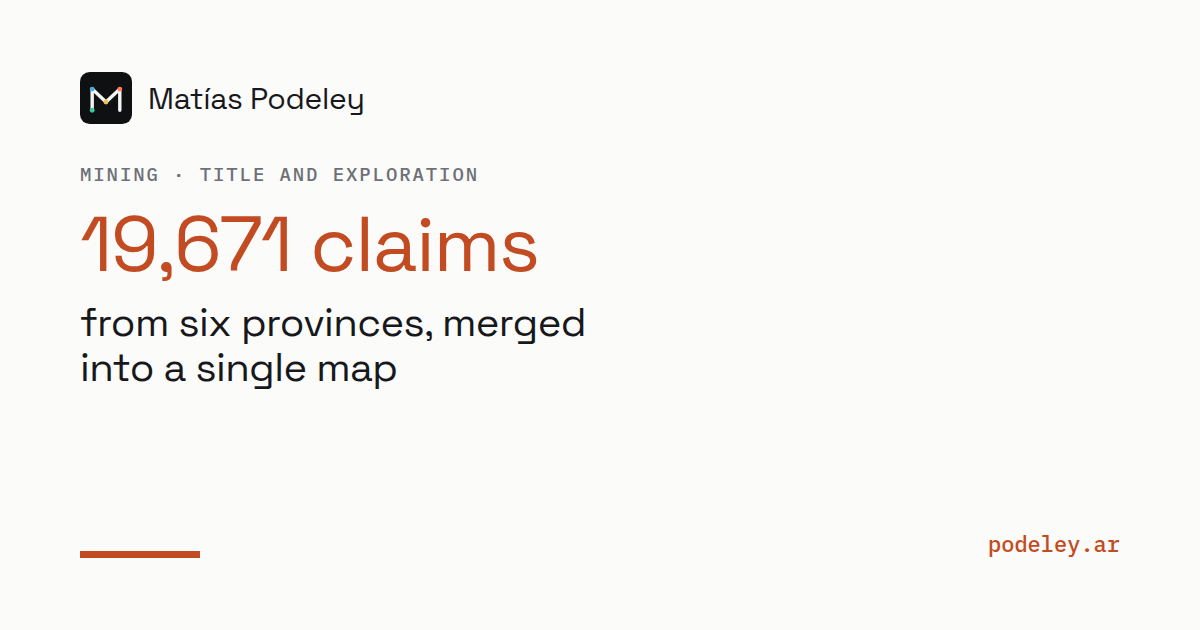
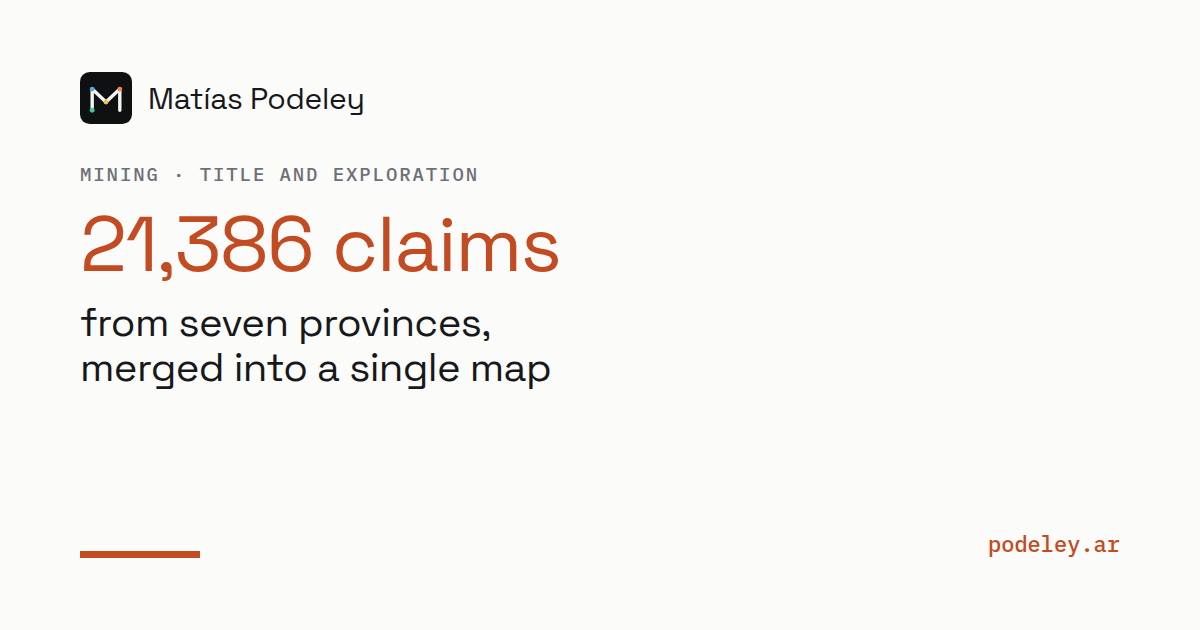
Updates

Changed region(s): [[0.0617, 0.3317, 0.4625, 0.4524], [0.0617, 0.4825, 0.4933, 0.6333]]

diff --git a/mineria/index.html b/mineria/index.html
@@ -4,7 +4,7 @@
 <meta charset="utf-8">
 <meta name="viewport" content="width=device-width,initial-scale=1">
 <title>Datos satelitales para minería — Matías Podeley</title>
-<meta name="description" content="Quién tiene derechos sobre el suelo en 6 provincias, blancos de exploración validados a ciegas, volumen excavado auditado por satélite y la obra de los salares de litio año por año. Cuatro casos en línea.">
+<meta name="description" content="Quién tiene derechos sobre el suelo en 7 provincias, blancos de exploración validados a ciegas, volumen excavado auditado por satélite y la obra de los salares de litio año por año. Cuatro casos en línea.">
 <link rel="canonical" href="https://podeley.ar/mineria/">
 <link rel="alternate" hreflang="es" href="https://podeley.ar/mineria/">
 <link rel="alternate" hreflang="en" href="https://podeley.ar/en/mineria/">
@@ -14,17 +14,17 @@
 <meta property="og:site_name" content="podeley.ar">
 <meta property="og:locale" content="es_AR">
 <meta property="og:title" content="Datos satelitales para minería — Matías Podeley">
-<meta property="og:description" content="Quién tiene derechos sobre el suelo en 6 provincias, blancos de exploración validados a ciegas, volumen excavado auditado por satélite y la obra de los salares de litio año por año. Cuatro casos en línea.">
+<meta property="og:description" content="Quién tiene derechos sobre el suelo en 7 provincias, blancos de exploración validados a ciegas, volumen excavado auditado por satélite y la obra de los salares de litio año por año. Cuatro casos en línea.">
 <meta property="og:image" content="https://podeley.ar/assets/og/mineria.es.png">
 <meta property="og:image:width" content="1200">
 <meta property="og:image:height" content="630">
-<meta property="og:image:alt" content="Minería: 19,671 derechos de seis provincias en un solo mapa">
+<meta property="og:image:alt" content="Minería: 21,386 derechos de siete provincias en un solo mapa">
 <meta property="og:url" content="https://podeley.ar/mineria/">
 <meta name="twitter:card" content="summary_large_image">
 <meta name="twitter:title" content="Datos satelitales para minería — Matías Podeley">
-<meta name="twitter:description" content="Quién tiene derechos sobre el suelo en 6 provincias, blancos de exploración validados a ciegas, volumen excavado auditado por satélite y la obra de los salares de litio año por año. Cuatro casos en línea.">
+<meta name="twitter:description" content="Quién tiene derechos sobre el suelo en 7 provincias, blancos de exploración validados a ciegas, volumen excavado auditado por satélite y la obra de los salares de litio año por año. Cuatro casos en línea.">
 <meta name="twitter:image" content="https://podeley.ar/assets/og/mineria.es.png">
-<meta name="twitter:image:alt" content="Minería: 19,671 derechos de seis provincias en un solo mapa">
+<meta name="twitter:image:alt" content="Minería: 21,386 derechos de siete provincias en un solo mapa">
 <link rel="preload" href="/fonts/space-grotesk-500.woff2" as="font" type="font/woff2" crossorigin>
 <link rel="preload" href="/fonts/ibm-plex-sans-400.woff2" as="font" type="font/woff2" crossorigin>
 <link rel="stylesheet" href="/styles/tokens.css">
@@ -63,7 +63,7 @@
 <section class="hero wrap">
   <p class="kicker">Minería · Exploración y monitoreo · Datos satelitales</p>
   <h1>Quién tiene el suelo, dónde perforar, cuánta roca se movió</h1>
-  <p class="hero-sub">Cuatro herramientas para decidir antes de pagar: el catastro de seis provincias unificado en un mapa, blancos de exploración validados a ciegas, volumen excavado medido desde el espacio y la obra de los salares de litio año por año. Todo con el método a la vista, trazable hasta la fuente.</p>
+  <p class="hero-sub">Cuatro herramientas para decidir antes de pagar: el catastro de siete provincias unificado en un mapa, blancos de exploración validados a ciegas, volumen excavado medido desde el espacio y la obra de los salares de litio año por año. Todo con el método a la vista, trazable hasta la fuente.</p>
   <p class="hero-cta"><a class="btn btn--primary" href="mailto:matias@podeley.ar?subject=Consulta%20Miner%C3%ADa%20%E2%80%94%20podeley.ar%2Fmineria&amp;body=Hola%20Matias%2C%0A%0A">Escribime</a> <a class="link-plain" href="#casos">Ver los casos <span class="arw">↓</span></a></p>
 </section>
 
@@ -80,8 +80,8 @@
     <article class="card">
       <figure class="shot"><img src="/assets/shots/catastro-minero-argentina.webp" width="1600" height="1000" loading="lazy" decoding="async" alt="Captura: mapa nacional de derechos mineros por provincia"></figure>
       <h3><a href="https://mpodeley.github.io/catastro-minero-argentina/" target="_blank" rel="noopener">Saber quién tiene el suelo antes de mover una ficha</a></h3>
-      <p class="pitch">Argentina no tiene catastro minero nacional: cada provincia publica el suyo con formato distinto, y varias no publican nada. Esto unifica seis en un mapa — 19,671 derechos, 22 millones de hectáreas, 2,418 titulares — con el mineral y el expediente detrás de cada polígono. San Juan tiene el 66.4% de su territorio bajo derecho minero, y las provincias que no publican se dibujan como ausencia explícita, nunca como territorio libre.</p>
-      <p class="meta"><span class="proj">Catastros provinciales · 6 provincias · datos a 2026-07 · se actualiza</span><span class="tag t-status">Dataset abierto</span></p>
+      <p class="pitch">Argentina no tiene catastro minero nacional: cada provincia publica el suyo con formato distinto, y varias no publican nada. Esto unifica siete en un mapa — 21,386 derechos, 25.8 millones de hectáreas, 2,991 titulares — con el mineral y el expediente detrás de cada polígono. San Juan tiene el 66.4% de su territorio bajo derecho minero, y las provincias que no publican se dibujan como ausencia explícita, nunca como territorio libre.</p>
+      <p class="meta"><span class="proj">Catastros provinciales · 7 provincias · datos a 2026-08 · se actualiza</span><span class="tag t-status">Dataset abierto</span></p>
     </article>
 
     <article class="card">
@@ -141,7 +141,7 @@
   <div class="section-head">
     <p class="eyebrow">Quién está detrás</p>
   </div>
-  <p class="bio-text">Matías Podeley. Ingeniero del ITBA, dieciocho años en energía: simulé yacimientos gigantes como Camisea, respaldé compras de activos por más de US$ 300 millones y di clases de evaluación de proyectos durante cinco años. Estas herramientas las construyo yo, con IA y fuentes auditables; lo que mejor me sale es ponerlas a trabajar con tu equipo. Buenos Aires.</p>
+  <p class="bio-text">Matías Podeley. Ingeniero del ITBA, dieciocho años en energía: cuatro de operación en Neuquén, simulé yacimientos gigantes como Camisea, lideré equipos evaluando proyectos petroquímicos, respaldé compras de activos por más de US$ 300 millones y di clases de evaluación de proyectos durante cinco años. Estas herramientas las construyo yo, con IA y fuentes auditables; lo que mejor me sale es ponerlas a trabajar con tu equipo. Buenos Aires.</p>
   <p class="aside-link">De dónde sale que un ingeniero de petróleo mire salares: <a href="/perfil/">perfil</a>.</p>
 </section>
 

diff --git a/en/mineria/index.html b/en/mineria/index.html
@@ -4,7 +4,7 @@
 <meta charset="utf-8">
 <meta name="viewport" content="width=device-width,initial-scale=1">
 <title>Satellite data for mining — Matías Podeley</title>
-<meta name="description" content="Who holds mining title across 6 provinces, blind-validated exploration targets, satellite-audited excavated volume, and lithium salar buildout year by year. Four live cases.">
+<meta name="description" content="Who holds mining title across 7 provinces, blind-validated exploration targets, satellite-audited excavated volume, and lithium salar buildout year by year. Four live cases.">
 <link rel="canonical" href="https://podeley.ar/en/mineria/">
 <link rel="alternate" hreflang="es" href="https://podeley.ar/mineria/">
 <link rel="alternate" hreflang="en" href="https://podeley.ar/en/mineria/">
@@ -14,17 +14,17 @@
 <meta property="og:site_name" content="podeley.ar">
 <meta property="og:locale" content="en">
 <meta property="og:title" content="Satellite data for mining — Matías Podeley">
-<meta property="og:description" content="Who holds mining title across 6 provinces, blind-validated exploration targets, satellite-audited excavated volume, and lithium salar buildout year by year. Four live cases.">
+<meta property="og:description" content="Who holds mining title across 7 provinces, blind-validated exploration targets, satellite-audited excavated volume, and lithium salar buildout year by year. Four live cases.">
 <meta property="og:image" content="https://podeley.ar/assets/og/mineria.en.png">
 <meta property="og:image:width" content="1200">
 <meta property="og:image:height" content="630">
-<meta property="og:image:alt" content="Mining: 19,671 claims from six provinces in a single map">
+<meta property="og:image:alt" content="Mining: 21,386 claims from seven provinces in a single map">
 <meta property="og:url" content="https://podeley.ar/en/mineria/">
 <meta name="twitter:card" content="summary_large_image">
 <meta name="twitter:title" content="Satellite data for mining — Matías Podeley">
-<meta name="twitter:description" content="Who holds mining title across 6 provinces, blind-validated exploration targets, satellite-audited excavated volume, and lithium salar buildout year by year. Four live cases.">
+<meta name="twitter:description" content="Who holds mining title across 7 provinces, blind-validated exploration targets, satellite-audited excavated volume, and lithium salar buildout year by year. Four live cases.">
 <meta name="twitter:image" content="https://podeley.ar/assets/og/mineria.en.png">
-<meta name="twitter:image:alt" content="Mining: 19,671 claims from six provinces in a single map">
+<meta name="twitter:image:alt" content="Mining: 21,386 claims from seven provinces in a single map">
 <link rel="preload" href="/fonts/space-grotesk-500.woff2" as="font" type="font/woff2" crossorigin>
 <link rel="preload" href="/fonts/ibm-plex-sans-400.woff2" as="font" type="font/woff2" crossorigin>
 <link rel="stylesheet" href="/styles/tokens.css">
@@ -63,7 +63,7 @@
 <section class="hero wrap">
   <p class="kicker">Mining · Exploration &amp; monitoring · Satellite data</p>
   <h1>Who holds the ground, where to drill, how much rock moved</h1>
-  <p class="hero-sub">Four tools for deciding before you pay: the mining cadastre of six provinces unified into one map, exploration targets blind-validated against known deposits, excavated volume measured from orbit, and lithium salar buildout year by year. All with the method left in the open, traceable to the source.</p>
+  <p class="hero-sub">Four tools for deciding before you pay: the mining cadastre of seven provinces unified into one map, exploration targets blind-validated against known deposits, excavated volume measured from orbit, and lithium salar buildout year by year. All with the method left in the open, traceable to the source.</p>
   <p class="hero-cta"><a class="btn btn--primary" href="mailto:matias@podeley.ar?subject=Mining%20inquiry%20%E2%80%94%20podeley.ar%2Fmineria&amp;body=Hi%20Matias%2C%0A%0A">Email me</a> <a class="link-plain" href="#casos">See the cases <span class="arw">↓</span></a></p>
 </section>
 
@@ -80,8 +80,8 @@
     <article class="card">
       <figure class="shot"><img src="/assets/shots/catastro-minero-argentina.webp" width="1600" height="1000" loading="lazy" decoding="async" alt="Screenshot: national map of mining tenements by province"></figure>
       <h3><a href="https://mpodeley.github.io/catastro-minero-argentina/" target="_blank" rel="noopener">Know who holds the ground before making a move</a></h3>
-      <p class="pitch">Argentina has no national mining cadastre: each province publishes its own in a different format, and several publish nothing at all. This unifies six into one map — 19,671 tenements, 22 million hectares, 2,418 holders — with the mineral and the file number behind every polygon. San Juan has 66.4% of its territory under mining title, and the provinces that publish nothing are drawn as explicit absence, never as open ground.</p>
-      <p class="meta"><span class="proj">Provincial cadastres · 6 provinces · data to 2026-07 · kept current</span><span class="tag t-status">Open dataset</span></p>
+      <p class="pitch">Argentina has no national mining cadastre: each province publishes its own in a different format, and several publish nothing at all. This unifies seven into one map — 21,386 tenements, 25.8 million hectares, 2,991 holders — with the mineral and the file number behind every polygon. San Juan has 66.4% of its territory under mining title, and the provinces that publish nothing are drawn as explicit absence, never as open ground.</p>
+      <p class="meta"><span class="proj">Provincial cadastres · 7 provinces · data to 2026-08 · kept current</span><span class="tag t-status">Open dataset</span></p>
     </article>
 
     <article class="card">
@@ -141,7 +141,7 @@
   <div class="section-head">
     <p class="eyebrow">Who's behind this</p>
   </div>
-  <p class="bio-text">Matías Podeley. An ITBA engineer, eighteen years in energy: I simulated giant fields like Camisea, backed asset purchases above US$ 300 million, and taught project appraisal for five years. I build these tools myself, with AI and auditable sources; what I do best is putting them to work with your team. Buenos Aires.</p>
+  <p class="bio-text">Matías Podeley. An ITBA engineer, eighteen years in energy — four of them in operations in Neuquén: I simulated giant fields like Camisea, led teams appraising petrochemical projects, backed asset purchases above US$ 300 million, and taught project appraisal for five years. I build these tools myself, with AI and auditable sources; what I do best is putting them to work with your team. Buenos Aires.</p>
   <p class="aside-link">Why a petroleum engineer ends up looking at salars: <a href="/en/perfil/">profile</a>.</p>
 </section>
 

diff --git a/index.html b/index.html
@@ -63,7 +63,7 @@
 <section class="hero wrap">
   <p class="kicker"><a class="link-plain" href="/perfil/">Matías Podeley</a> · Reservorios y desarrollo de negocio · Buenos Aires</p>
   <h1>El dato oficial tarda. Vos podés medirlo hoy</h1>
-  <p class="hero-sub">Soluciones y herramientas para energía y minería: diez están en línea, construidas con IA por un ingeniero con dieciocho años adentro de la industria, sobre fuentes que tu equipo puede auditar. Qué hizo la competencia mientras el registro oficial todavía no lo dice, quién tiene el suelo en seis provincias, cómo viene la red de gas esta mañana — y de dónde sale cada número.</p>
+  <p class="hero-sub">Soluciones y herramientas para energía y minería: diez están en línea, construidas con IA por un ingeniero con dieciocho años adentro de la industria, sobre fuentes que tu equipo puede auditar. Qué hizo la competencia mientras el registro oficial todavía no lo dice, quién tiene el suelo en siete provincias, cómo viene la red de gas esta mañana — y de dónde sale cada número.</p>
   <p class="hero-cta"><a class="btn btn--primary" href="/consultoria/" data-goatcounter-click="home-a-consultoria">Cómo es trabajar conmigo</a> <a class="btn btn--outline" href="mailto:matias@podeley.ar?subject=Consulta%20%E2%80%94%20podeley.ar&amp;body=Hola%20Matias%2C%0A%0AEmpresa%20o%20activo%3A%20%0ADecisi%C3%B3n%20que%20necesito%20tomar%3A%20%0AFecha%20l%C3%ADmite%3A%20%0ADatos%20disponibles%3A%20%0A">Exploremos cómo puedo ayudarte</a> <a class="link-plain" href="#areas">Ver por área <span class="arw">↓</span></a></p>
 </section>
 
@@ -80,8 +80,8 @@
       <p>El rezago del registro oficial de producción. En esa ventana la cuenca se mueve y el Capítulo IV no lo dice — las luces nocturnas sí.</p>
     </div>
     <div class="principle">
-      <p class="fig"><a href="/mineria/">19,671 derechos</a></p>
-      <p>Los derechos mineros de seis provincias, unificados y con su expediente. El catastro nacional que no existe, en un mapa.</p>
+      <p class="fig"><a href="/mineria/">21,386 derechos</a></p>
+      <p>Los derechos mineros de siete provincias, unificados y con su expediente. El catastro nacional que no existe, en un mapa.</p>
     </div>
     <div class="principle">
       <p class="fig"><a href="/energia/">Mes a mes</a></p>
@@ -148,7 +148,7 @@
   <div class="section-head">
     <p class="eyebrow">Quién está detrás</p>
   </div>
-  <p class="bio-text">Matías Podeley. Ingeniero del ITBA, dieciocho años en energía: simulé yacimientos gigantes como Camisea, respaldé compras de activos por más de US$ 300 millones y di clases de evaluación de proyectos durante cinco años. Estas herramientas las construyo yo, con IA y fuentes auditables; lo que mejor me sale es ponerlas a trabajar con tu equipo. Buenos Aires.</p>
+  <p class="bio-text">Matías Podeley. Ingeniero del ITBA, dieciocho años en energía: cuatro de operación en Neuquén, simulé yacimientos gigantes como Camisea, lideré equipos evaluando proyectos petroquímicos, respaldé compras de activos por más de US$ 300 millones y di clases de evaluación de proyectos durante cinco años. Estas herramientas las construyo yo, con IA y fuentes auditables; lo que mejor me sale es ponerlas a trabajar con tu equipo. Buenos Aires.</p>
   <p class="aside-link">La trayectoria completa, con las empresas y los activos: <a href="/perfil/">perfil</a>.</p>
   <p class="other-line"><a href="mailto:matias@podeley.ar?subject=Consulta%20%E2%80%94%20podeley.ar&amp;body=Hola%20Matias%2C%0A%0A">¿Otro problema de datos? Escribime <span class="arw">→</span></a></p>
 </section>

diff --git a/en/index.html b/en/index.html
@@ -63,7 +63,7 @@
 <section class="hero wrap">
   <p class="kicker"><a class="link-plain" href="/en/perfil/">Matías Podeley</a> · Reservoir engineering &amp; business development · Buenos Aires</p>
   <h1>The official data runs late. You can measure it today</h1>
-  <p class="hero-sub">Solutions and tools for energy and mining: ten are live, built with AI by an engineer with eighteen years inside the industry, on sources your team can audit. What competitors did while the official registry still says nothing, who holds the ground across six provinces, how the gas grid looks this morning — and where every number comes from.</p>
+  <p class="hero-sub">Solutions and tools for energy and mining: ten are live, built with AI by an engineer with eighteen years inside the industry, on sources your team can audit. What competitors did while the official registry still says nothing, who holds the ground across seven provinces, how the gas grid looks this morning — and where every number comes from.</p>
   <p class="hero-cta"><a class="btn btn--primary" href="/en/consultoria/" data-goatcounter-click="home-to-consulting">How working with me goes</a> <a class="btn btn--outline" href="mailto:matias@podeley.ar?subject=Inquiry%20%E2%80%94%20podeley.ar&amp;body=Hi%20Matias%2C%0A%0ACompany%20or%20asset%3A%20%0ADecision%20at%20hand%3A%20%0ADeadline%3A%20%0AAvailable%20data%3A%20%0A">Let&#39;s explore how I can help</a> <a class="link-plain" href="#areas">Browse by area <span class="arw">↓</span></a></p>
 </section>
 
@@ -80,8 +80,8 @@
       <p>The lag of Argentina's official production registry. Inside that window the basin moves and the registry says nothing — night lights do.</p>
     </div>
     <div class="principle">
-      <p class="fig"><a href="/en/mineria/">19,671 claims</a></p>
-      <p>The mining rights of six provinces, unified and traced to their files. The national cadastre that doesn't exist, on one map.</p>
+      <p class="fig"><a href="/en/mineria/">21,386 claims</a></p>
+      <p>The mining rights of seven provinces, unified and traced to their files. The national cadastre that doesn't exist, on one map.</p>
     </div>
     <div class="principle">
       <p class="fig"><a href="/en/energia/">Month by month</a></p>
@@ -148,7 +148,7 @@
   <div class="section-head">
     <p class="eyebrow">Who is behind this</p>
   </div>
-  <p class="bio-text">Matías Podeley. An ITBA engineer, eighteen years in energy: I simulated giant fields like Camisea, backed asset purchases above US$ 300 million, and taught project appraisal for five years. I build these tools myself, with AI and auditable sources; what I do best is putting them to work with your team. Buenos Aires.</p>
+  <p class="bio-text">Matías Podeley. An ITBA engineer, eighteen years in energy — four of them in operations in Neuquén: I simulated giant fields like Camisea, led teams appraising petrochemical projects, backed asset purchases above US$ 300 million, and taught project appraisal for five years. I build these tools myself, with AI and auditable sources; what I do best is putting them to work with your team. Buenos Aires.</p>
   <p class="aside-link">The full track record, with the companies and the assets: <a href="/en/perfil/">profile</a>.</p>
   <p class="other-line"><a href="mailto:matias@podeley.ar?subject=Inquiry%20%E2%80%94%20podeley.ar&amp;body=Hi%20Matias%2C%0A%0A">A different data problem? Email me <span class="arw">→</span></a></p>
 </section>

diff --git a/ciber/index.html b/ciber/index.html
@@ -288,7 +288,7 @@
   <div class="section-head">
     <p class="eyebrow">Recursos</p>
     <h2>Dónde mirar, además de acá</h2>
-    <p class="intro">Once entradas, cada una con su para qué. Lo que no le sirve al lector de este registro quedó afuera — se cortaron cuatro organizaciones cuyo trabajo ciber es de membresía o no existe.</p>
+    <p class="intro">Doce entradas, cada una con su para qué. Lo que no le sirve al lector de este registro quedó afuera — se cortaron cuatro organizaciones cuyo trabajo ciber es de membresía o no existe.</p>
   </div>
 
   <p class="rsrc-g">Seguimiento y respuesta</p>
@@ -308,6 +308,11 @@
     <li><a href="https://isagca.org/isa-iec-62443-standards">ISA/IEC 62443</a>: el estándar de ciberseguridad industrial, explicado gratis por sus autores en las guías de ISAGCA; el texto completo del estándar es pago.</li>
     <li><a href="https://attack.mitre.org/matrices/ics/">MITRE ATT&amp;CK for ICS</a>: el catálogo estándar de tácticas de ataque a sistemas industriales: el vocabulario de los informes técnicos que cita este registro.</li>
     <li><a href="https://www.dragos.com/ot-cybersecurity-year-in-review">Dragos, OT Cybersecurity Report</a>: el informe anual de amenazas a sistemas industriales más citado del sector; la edición 2026 pide un mail para descargarse.</li>
+  </ul>
+
+  <p class="rsrc-g">Comunidad</p>
+  <ul class="rsrc">
+    <li><a href="https://baish.com.ar/">BAISH — Buenos Aires AI Safety Hub</a>: la comunidad de seguridad de IA de Buenos Aires; la puerta de entrada local a la disciplina que la sección de IA de este registro cruza con la energía.</li>
   </ul>
 </section>
 
@@ -330,7 +335,7 @@
   <div class="section-head">
     <p class="eyebrow">Quién está detrás</p>
   </div>
-  <p class="bio-text">Matías Podeley. Ingeniero del ITBA, dieciocho años en energía: simulé yacimientos gigantes como Camisea, respaldé compras de activos por más de US$ 300 millones y di clases de evaluación de proyectos durante cinco años. Estas herramientas las construyo yo, con IA y fuentes auditables; lo que mejor me sale es ponerlas a trabajar con tu equipo. Buenos Aires.</p>
+  <p class="bio-text">Matías Podeley. Ingeniero del ITBA, dieciocho años en energía: cuatro de operación en Neuquén, simulé yacimientos gigantes como Camisea, lideré equipos evaluando proyectos petroquímicos, respaldé compras de activos por más de US$ 300 millones y di clases de evaluación de proyectos durante cinco años. Estas herramientas las construyo yo, con IA y fuentes auditables; lo que mejor me sale es ponerlas a trabajar con tu equipo. Buenos Aires.</p>
   <p class="aside-link">La investigación en seguridad de inteligencia artificial que hay atrás de la última sección: <a href="/research/">research</a>.</p>
 </section>
 </main>

diff --git a/en/ciber/index.html b/en/ciber/index.html
@@ -288,7 +288,7 @@
   <div class="section-head">
     <p class="eyebrow">Resources</p>
     <h2>Where to look, besides here</h2>
-    <p class="intro">Eleven entries, each with its purpose stated. Whatever does not serve a reader of this register stayed out — four organizations whose cyber work is members-only or nonexistent were cut.</p>
+    <p class="intro">Twelve entries, each with its purpose stated. Whatever does not serve a reader of this register stayed out — four organizations whose cyber work is members-only or nonexistent were cut.</p>
   </div>
 
   <p class="rsrc-g">Tracking and response</p>
@@ -308,6 +308,11 @@
     <li><a href="https://isagca.org/isa-iec-62443-standards">ISA/IEC 62443</a>: the industrial cybersecurity standard, explained for free by its authors in the ISAGCA guides; the full standard text is paid.</li>
     <li><a href="https://attack.mitre.org/matrices/ics/">MITRE ATT&amp;CK for ICS</a>: the standard catalog of attack tactics against industrial systems: the vocabulary of the technical reports this register cites.</li>
     <li><a href="https://www.dragos.com/ot-cybersecurity-year-in-review">Dragos, OT Cybersecurity Report</a>: the sector's most-cited annual report on threats to industrial systems; the 2026 edition asks for an email to download.</li>
+  </ul>
+
+  <p class="rsrc-g">Community</p>
+  <ul class="rsrc">
+    <li><a href="https://baish.com.ar/">BAISH — Buenos Aires AI Safety Hub</a>: Buenos Aires’s AI safety community; the local doorway into the discipline this register’s AI section crosses with energy.</li>
   </ul>
 </section>
 
@@ -330,7 +335,7 @@
   <div class="section-head">
     <p class="eyebrow">Who is behind this</p>
   </div>
-  <p class="bio-text">Matías Podeley. An ITBA engineer, eighteen years in energy: I simulated giant fields like Camisea, backed asset purchases above US$ 300 million, and taught project appraisal for five years. I build these tools myself, with AI and auditable sources; what I do best is putting them to work with your team. Buenos Aires.</p>
+  <p class="bio-text">Matías Podeley. An ITBA engineer, eighteen years in energy — four of them in operations in Neuquén: I simulated giant fields like Camisea, led teams appraising petrochemical projects, backed asset purchases above US$ 300 million, and taught project appraisal for five years. I build these tools myself, with AI and auditable sources; what I do best is putting them to work with your team. Buenos Aires.</p>
   <p class="aside-link">The AI-safety research behind the last section: <a href="/en/research/">research</a>.</p>
 </section>
 </main>

diff --git a/energia/index.html b/energia/index.html
@@ -125,7 +125,7 @@
   <div class="section-head">
     <p class="eyebrow">Quién está detrás</p>
   </div>
-  <p class="bio-text">Matías Podeley. Ingeniero del ITBA, dieciocho años en energía: simulé yacimientos gigantes como Camisea, respaldé compras de activos por más de US$ 300 millones y di clases de evaluación de proyectos durante cinco años. Estas herramientas las construyo yo, con IA y fuentes auditables; lo que mejor me sale es ponerlas a trabajar con tu equipo. Buenos Aires.</p>
+  <p class="bio-text">Matías Podeley. Ingeniero del ITBA, dieciocho años en energía: cuatro de operación en Neuquén, simulé yacimientos gigantes como Camisea, lideré equipos evaluando proyectos petroquímicos, respaldé compras de activos por más de US$ 300 millones y di clases de evaluación de proyectos durante cinco años. Estas herramientas las construyo yo, con IA y fuentes auditables; lo que mejor me sale es ponerlas a trabajar con tu equipo. Buenos Aires.</p>
   <p class="aside-link">Mi experiencia en operadoras, de la valuación de activos a la comercialización: <a href="/perfil/">perfil</a>.</p>
   <p class="aside-link">Aparte de las herramientas, un registro abierto: <a href="/ciber/">los catorce ciberincidentes conocidos del sector energético argentino</a>, con la fuente de cada fila.</p>
 </section>

diff --git a/en/energia/index.html b/en/energia/index.html
@@ -125,7 +125,7 @@
   <div class="section-head">
     <p class="eyebrow">Who's behind this</p>
   </div>
-  <p class="bio-text">Matías Podeley. An ITBA engineer, eighteen years in energy: I simulated giant fields like Camisea, backed asset purchases above US$ 300 million, and taught project appraisal for five years. I build these tools myself, with AI and auditable sources; what I do best is putting them to work with your team. Buenos Aires.</p>
+  <p class="bio-text">Matías Podeley. An ITBA engineer, eighteen years in energy — four of them in operations in Neuquén: I simulated giant fields like Camisea, led teams appraising petrochemical projects, backed asset purchases above US$ 300 million, and taught project appraisal for five years. I build these tools myself, with AI and auditable sources; what I do best is putting them to work with your team. Buenos Aires.</p>
   <p class="aside-link">My experience at operating companies, from asset valuation to commercial roles: <a href="/en/perfil/">profile</a>.</p>
   <p class="aside-link">Besides the tools, an open register: <a href="/en/ciber/">the fourteen known cyber incidents in Argentine energy</a>, sourced row by row.</p>
 </section>

diff --git a/ep/index.html b/ep/index.html
@@ -141,7 +141,7 @@
   <div class="section-head">
     <p class="eyebrow">Quién está detrás</p>
   </div>
-  <p class="bio-text">Matías Podeley. Ingeniero del ITBA, dieciocho años en energía: simulé yacimientos gigantes como Camisea, respaldé compras de activos por más de US$ 300 millones y di clases de evaluación de proyectos durante cinco años. Estas herramientas las construyo yo, con IA y fuentes auditables; lo que mejor me sale es ponerlas a trabajar con tu equipo. Buenos Aires.</p>
+  <p class="bio-text">Matías Podeley. Ingeniero del ITBA, dieciocho años en energía: cuatro de operación en Neuquén, simulé yacimientos gigantes como Camisea, lideré equipos evaluando proyectos petroquímicos, respaldé compras de activos por más de US$ 300 millones y di clases de evaluación de proyectos durante cinco años. Estas herramientas las construyo yo, con IA y fuentes auditables; lo que mejor me sale es ponerlas a trabajar con tu equipo. Buenos Aires.</p>
   <p class="aside-link">Dieciocho años de reservorios y desarrollo, con los campos por nombre: <a href="/perfil/">perfil</a>.</p>
 </section>
 

diff --git a/en/ep/index.html b/en/ep/index.html
@@ -141,7 +141,7 @@
   <div class="section-head">
     <p class="eyebrow">Who's behind this</p>
   </div>
-  <p class="bio-text">Matías Podeley. An ITBA engineer, eighteen years in energy: I simulated giant fields like Camisea, backed asset purchases above US$ 300 million, and taught project appraisal for five years. I build these tools myself, with AI and auditable sources; what I do best is putting them to work with your team. Buenos Aires.</p>
+  <p class="bio-text">Matías Podeley. An ITBA engineer, eighteen years in energy — four of them in operations in Neuquén: I simulated giant fields like Camisea, led teams appraising petrochemical projects, backed asset purchases above US$ 300 million, and taught project appraisal for five years. I build these tools myself, with AI and auditable sources; what I do best is putting them to work with your team. Buenos Aires.</p>
   <p class="aside-link">Eighteen years of reservoirs and development, with the fields named: <a href="/en/perfil/">profile</a>.</p>
 </section>
 
